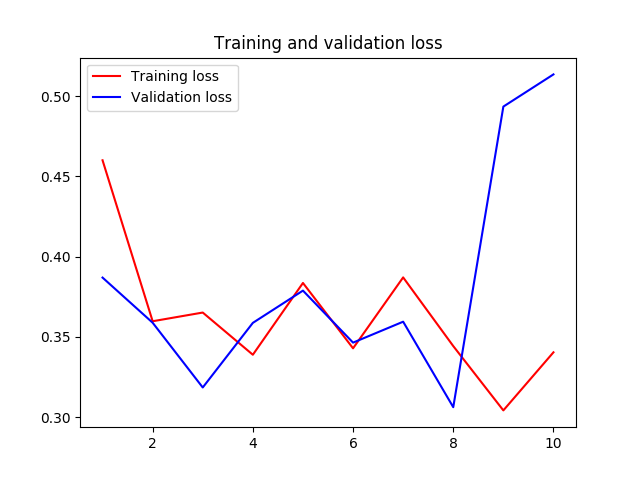
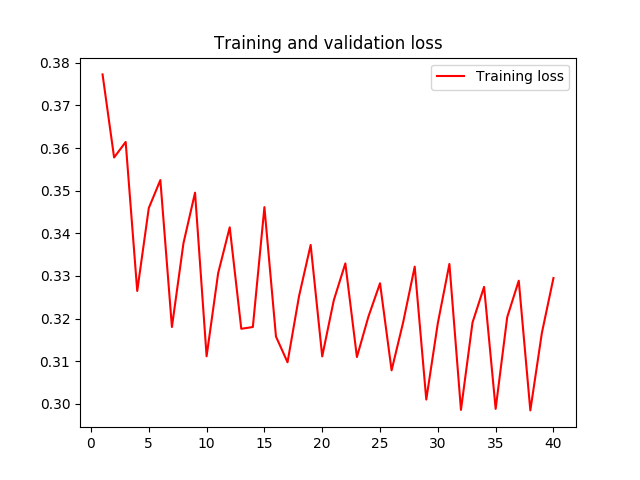
finsh test with dropout 0.5

diff --git a/forecasting.py b/forecasting.py
@@ -63,30 +63,6 @@ step = 6
 delay = 144
 batch_size = 128
 
-train_gen = generator(float_data,
-                      lookback=lookback,
-                      delay=delay,
-                      min_index=0,
-                      max_index=200000,
-                      shuffle=True,
-                      step=step,
-                      batch_size=batch_size)
-val_gen = generator(float_data,
-                    lookback=lookback,
-                    delay=delay,
-                    min_index=200001,
-                    max_index=300000,
-                    shuffle=True,
-                    step=step,
-                    batch_size=batch_size)
-test_gen = generator(float_data,
-                    lookback=lookback,
-                    delay=delay,
-                    min_index=300001,
-                    max_index=None,
-                    shuffle=True,
-                    step=step,
-                    batch_size=batch_size)
 train_sqn = generator(float_data,
                       lookback=lookback,
                       delay=delay,
@@ -128,28 +104,41 @@ model.compile(optimizer='rmsprop',
               metrics=['mae'])
 history = model.fit_generator(train_sqn,
                     steps_per_epoch=500,
-                    epochs=40,
-                    validation_data=val_sqn,
-                    validation_steps=val_steps)
+                    epochs=40,)
+                    #validation_data=val_sqn,
+                    #validation_steps=val_steps)
 
 
 # Save training and validation result
 
 loss = history.history['loss']
-val_loss = history.history['val_loss']
+#val_loss = history.history['val_loss']
 
 epochs = range(1, len(loss) + 1)
 
 plt.figure()
 
 plt.plot(epochs, loss, 'r', label='Training loss')
-plt.plot(epochs, val_loss, 'b', label='Validation loss')
+#plt.plot(epochs, val_loss, 'b', label='Validation loss')
 plt.title('Training and validation loss')
 plt.legend()
 
 plt.savefig('Training and validation loss.png')
 
+
+# Evaluate the training model
+scoreSeg = model.evaluate_generator(test_sqn, steps=1000, workers=4)
+print("mean_absolute_error = ", scoreSeg)
+
 # Compare predicts and targets
+test_sqn = generator(float_data,
+                    lookback=lookback,
+                    delay=delay,
+                    min_index=300001,
+                    max_index=None,
+                    shuffle=False,
+                    step=step,
+                    batch_size=batch_size)
 
 predicts = model.predict_generator(test_sqn, steps=100, workers=4)
 
@@ -168,8 +157,6 @@ for step in range(100):
     targets.append(target_batch)
 
 targets = np.hstack(targets)
-
-import matplotlib.pyplot as plt
 
 epochs = range(0, 1200)
 
